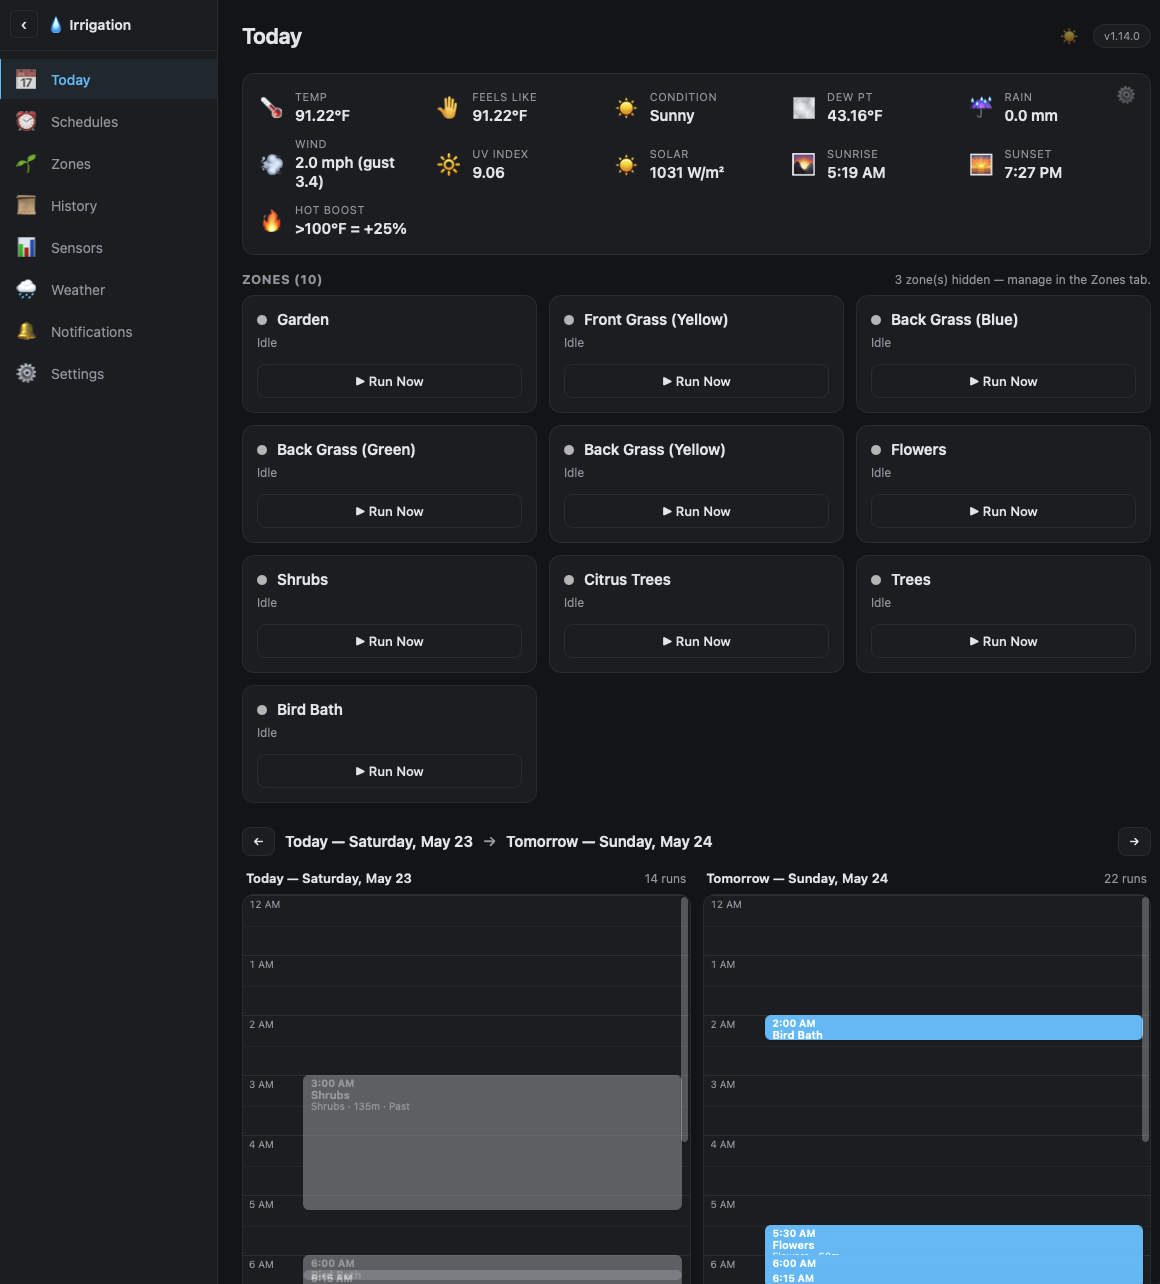
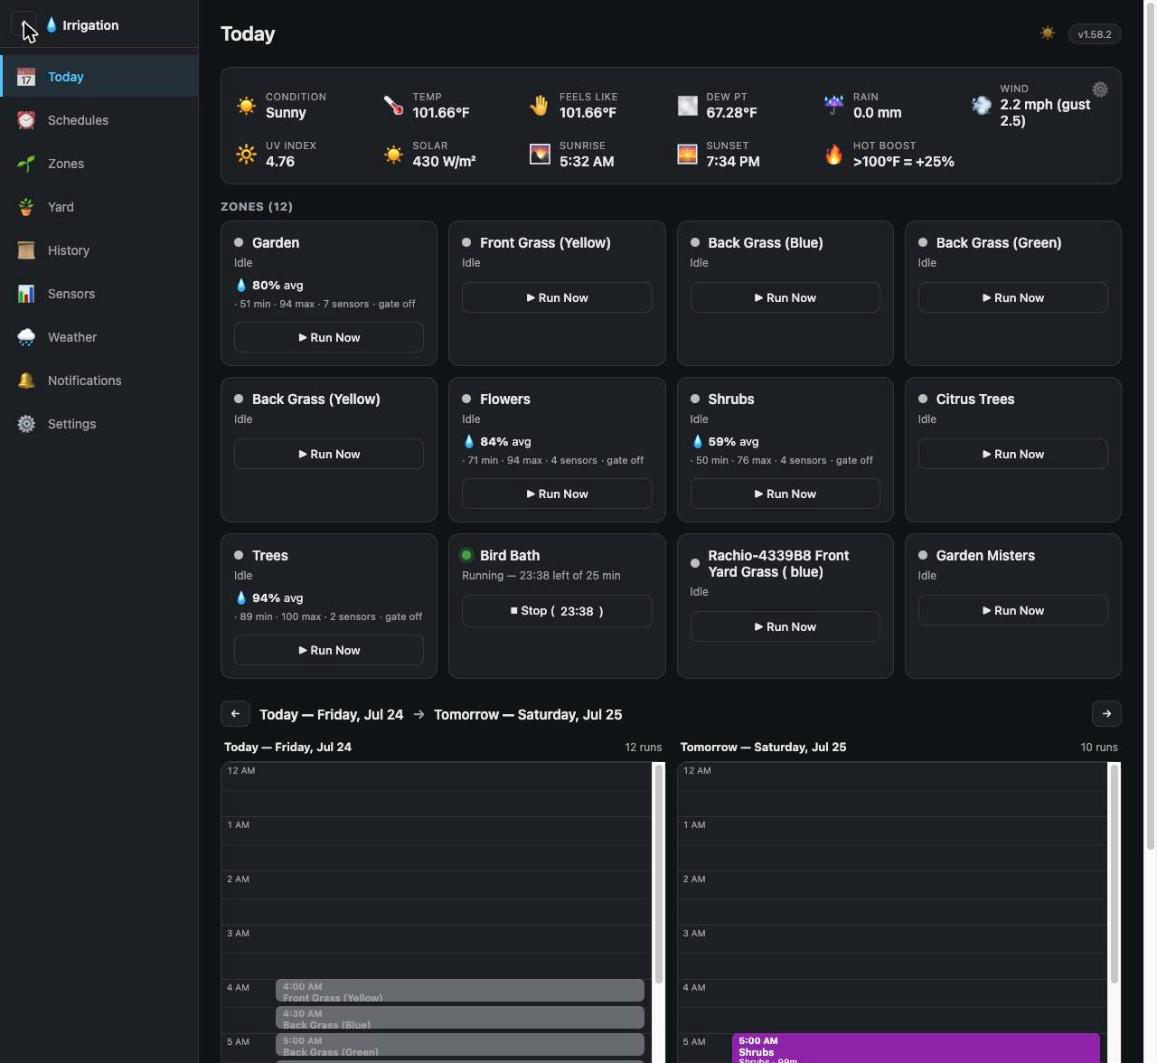
v1.58.2 — stranded-pointer drag fix, always-visible map legend, fresh screenshots
_onMapPointerDown (view-pan branch): a gesture interrupted mid-pinch left a
ghost pointer in _mapPointers, so the next single-pointer drag was treated as
an in-progress two-finger gesture and ignored until reload — now a new primary
pointer clears the tracker and _mapPinch first. Yard map: the controls hint
was only rendered when there were no unplaced-plant chips; it is now an
always-rendered legend below the aerial covering zoom/pan/fit, the 1 m nudge
D-pad, marker drag, canopy measure, and light areas (DE pack strings added,
reassembled via i18n_assemble). README: all 7 panel screenshots re-captured on
v1.58.2 with panel-only chrome + 2 new (schedule-editor scheduler-priority
section, Notifications tab); img dims/alts updated.

diff --git a/custom_components/complete_irrigation/frontend/complete-irrigation-panel.js b/custom_components/complete_irrigation/frontend/complete-irrigation-panel.js
@@ -72,7 +72,7 @@
   // v1.16: one constant fed to every version-pill render + the console
   // banner. Pre-v1.16 the version was hard-coded in 10+ places and got
   // out of sync with manifest.json on most releases.
-  const PANEL_VERSION = "v1.58.1";
+  const PANEL_VERSION = "v1.58.2";
   // v1.41 — external plant-ID providers (mirrors llm_client.PROVIDERS). URL is
   // auto-filled when a provider is picked; model is an editable hint. All speak
   // the same OpenAI /v1/chat/completions shape, so one settings form covers them.
@@ -3432,6 +3432,15 @@
       // the press lands on the aerial layer, not a button/chip.
       if (wrap && e.target?.closest?.(".yard-map-view")) {
         e.preventDefault();
+        // v1.58.2 — a PRIMARY pointer starting a fresh gesture flushes any stale
+        // tracked pointers (an alert/modal mid-drag can swallow pointerup, and a
+        // stranded entry makes every later mouse drag look like a 2-finger pinch,
+        // killing pan until reload). Mouse is always primary; the first touch is
+        // primary; a real second finger (isPrimary=false) still joins the pinch.
+        if (e.isPrimary) {
+          this._mapPointers.clear();
+          this._mapPinch = null;
+        }
         this._mapPointers.set(e.pointerId, { x: e.clientX, y: e.clientY });
         try {
           wrap.setPointerCapture?.(e.pointerId);
@@ -7380,7 +7389,15 @@
         areaAssignPanel +
         (chips
           ? `<div class="yard-map-unplaced"><span class="muted">Tap to place:</span> ${chips}</div>`
-          : `<p class="muted yard-map-hint">Drag the map to pan &middot; scroll or +/&minus; to zoom in &middot; drag a marker to reposition.</p>`) +
+          : "") +
+        // v1.58.2 — ALWAYS-visible legend (the old hint hid whenever unplaced
+        // chips rendered, so most users never saw what the controls do).
+        `<p class="muted yard-map-hint">` +
+        `<strong>Map controls:</strong> scroll or <strong>+</strong>/<strong>&minus;</strong> to zoom &middot; ` +
+        `once zoomed, <strong>drag</strong> the image to pan &middot; <strong>⤢</strong> fits the whole aerial &middot; ` +
+        `<strong>▲◀▶▼</strong> shift the aerial frame 1 m per tap (changes what ground the photo covers &mdash; use when your yard is clipped on one side) &middot; ` +
+        `drag a <strong>marker</strong> to move a plant &middot; <strong>📐</strong> measures a canopy &middot; <strong>🗺</strong> groups plants into a light area.` +
+        `</p>` +
         `</div>`
       );
     }
@@ -10036,6 +10053,7 @@
       "Manual": "Manuell",
       "Manual fallback (inches / week)": "Manueller Fallback (Zoll / Woche)",
       "Manual run default": "Standard für manuellen Lauf",
+      "Map controls:": "Kartensteuerung:",
       "Master switch. Turn off to silence all push notifications without losing your config.": "Hauptschalter. Ausschalten, um alle Push-Benachrichtigungen stummzuschalten, ohne deine Konfiguration zu verlieren.",
       "Max %": "Max. %",
       "Max cycles": "Max. Zyklen",
@@ -10359,6 +10377,8 @@
       "completed": "abgeschlossen",
       "count": "Anzahl",
       "custom": "Benutzerdefiniert",
+      "drag": "ziehe",
+      "drag a": "ziehe einen",
       "e.g. 1": "z. B. 1",
       "e.g. 100": "z. B. 100",
       "e.g. 10000": "z. B. 10000",
@@ -10369,24 +10389,34 @@
       "e.g. Front Bed": "z. B. Vorderes Beet",
       "e.g. Front-yard lemon": "z. B. Zitrone im Vorgarten",
       "e.g. qwen2.5-vl": "z. B. qwen2.5-vl",
+      "fits the whole aerial ·": "passt das ganze Luftbild ein ·",
       "from your library. You'll see a thumbnail — then tap": "aus deiner Mediathek. Du siehst ein Vorschaubild — tippe dann auf",
+      "groups plants into a light area.": "gruppiert Pflanzen in einen Lichtbereich.",
       "in avg": "im Schnitt",
       "key saved — leave blank to keep it": "Schlüssel gespeichert — leer lassen, um ihn zu behalten",
       "lawn": "Rasen",
       "left": "verbleibend",
+      "marker": "Marker",
+      "measures a canopy ·": "misst eine Kronenfläche ·",
       "model id": "Modell-ID",
       "no zone found for that ZIP": "keine Zone für diese PLZ gefunden",
       "not necessary": "nicht nötig",
       "on the Yard tab to re-fetch.": "auf dem Garten-Tab, um es neu zu laden.",
+      "once zoomed,": "wenn gezoomt,",
       "paste your API key": "füge deinen API-Schlüssel ein",
       "paste your Perenual API key": "füge deinen Perenual-API-Schlüssel ein",
       "paste your Pl@ntNet API key": "füge deinen Pl@ntNet-API-Schlüssel ein",
       "primary": "primär",
       "running": "läuft",
+      "scroll or": "Scrollen oder",
       "services found in this HA instance yet. Install the Home Assistant Companion app on your phone (or another notify integration) and they'll appear here.": "Dienste in dieser HA-Instanz gefunden. Installiere die Home Assistant Companion App auf deinem Handy (oder eine andere Benachrichtigungs-Integration), dann erscheinen sie hier.",
+      "shift the aerial frame 1 m per tap (changes what ground the photo covers — use when your yard is clipped on one side) ·": "verschiebt den Bildausschnitt 1 m pro Tipp (ändert, welchen Bereich das Foto abdeckt — nützlich, wenn dein Garten an einer Seite abgeschnitten ist) ·",
       "skipped": "übersprungen",
       "species not set": "Art nicht festgelegt",
+      "the image to pan ·": "das Bild zum Verschieben ·",
       "to": "auf",
+      "to move a plant ·": "zum Verschieben einer Pflanze ·",
+      "to zoom ·": "zum Zoomen ·",
       "trees": "Bäume",
       "vegetable_garden": "Gemüsegarten",
       "· gate off": "· Sperre aus",

diff --git a/README.md b/README.md
@@ -8,17 +8,19 @@ A Home Assistant custom integration for complete, sensor-driven irrigation contr
 
 > **Smoke-tested against a real HA container per the [3-check protocol](CONTRIBUTING.md) every release.** Back up your HA before installing; report bugs at the [issues page](https://github.com/HL-Apprentice/ha-complete-irrigation/issues). Security issues: see [SECURITY.md](SECURITY.md). See [CHANGELOG.md](CHANGELOG.md) for what's new.
 
-<img width="1160" height="1284" alt="Today tab: weather banner, per-zone Run Now tiles, and the today/tomorrow run timeline" src="https://raw.githubusercontent.com/HL-Apprentice/ha-complete-irrigation/main/assets/screenshots/panel-1.png" />
+<img width="1157" height="1063" alt="Today tab: weather banner, per-zone Run Now tiles, and the today/tomorrow run timeline" src="https://raw.githubusercontent.com/HL-Apprentice/ha-complete-irrigation/main/assets/screenshots/panel-1.png" />
 
 <details>
 <summary>More screenshots</summary>
 
-<img width="1168" height="437" alt="Schedules tab: schedule list with recurrence, duration, and enable/edit/delete controls" src="https://raw.githubusercontent.com/HL-Apprentice/ha-complete-irrigation/main/assets/screenshots/panel-2.png" />
-<img width="1163" height="498" alt="Zones tab: per-zone week-at-a-glance run dots with New Planting and Hide from Today buttons" src="https://raw.githubusercontent.com/HL-Apprentice/ha-complete-irrigation/main/assets/screenshots/panel-3.png" />
-<img width="1168" height="459" alt="History tab: run history filtered by zone, schedule, status, and date range" src="https://raw.githubusercontent.com/HL-Apprentice/ha-complete-irrigation/main/assets/screenshots/panel-4.png" />
-<img width="1163" height="651" alt="Sensors tab: per-zone moisture sensors with live readings and the combined value used for decisions" src="https://raw.githubusercontent.com/HL-Apprentice/ha-complete-irrigation/main/assets/screenshots/panel-5.png" />
-<img width="1164" height="999" alt="Weather tab: 3-day forecast, rain-lockout sensor picker, hot weather boost, and wind defer" src="https://raw.githubusercontent.com/HL-Apprentice/ha-complete-irrigation/main/assets/screenshots/panel-6.png" />
-<img width="900" height="1284" alt="Settings tab: theme, schedule conflicts, inter-zone buffer, manual run default, and calendar feed" src="https://raw.githubusercontent.com/HL-Apprentice/ha-complete-irrigation/main/assets/screenshots/panel-7.png" />
+<img width="1157" height="1063" alt="Schedules tab: proposed schedule fixes with one-tap Apply, the Ask-the-scheduler chat box, and the schedule list" src="https://raw.githubusercontent.com/HL-Apprentice/ha-complete-irrigation/main/assets/screenshots/panel-2.png" />
+<img width="1157" height="1063" alt="Zones tab: per-zone week-at-a-glance run dots with New Planting, Diagnose, and Hide from Today buttons" src="https://raw.githubusercontent.com/HL-Apprentice/ha-complete-irrigation/main/assets/screenshots/panel-3.png" />
+<img width="1157" height="1063" alt="History tab: run history filtered by zone, schedule, status, and date range, with block progress and trigger tags" src="https://raw.githubusercontent.com/HL-Apprentice/ha-complete-irrigation/main/assets/screenshots/panel-4.png" />
+<img width="1157" height="1063" alt="Sensors tab: per-zone moisture sensors with live readings and the combined value used for decisions" src="https://raw.githubusercontent.com/HL-Apprentice/ha-complete-irrigation/main/assets/screenshots/panel-5.png" />
+<img width="1157" height="1063" alt="Weather tab: 3-day forecast, rain-lockout sensor picker, hot weather boost, and wind defer" src="https://raw.githubusercontent.com/HL-Apprentice/ha-complete-irrigation/main/assets/screenshots/panel-6.png" />
+<img width="1157" height="1063" alt="Settings tab: theme, schedule-conflict policy, schedule timing, and split-chunk defaults by plant type" src="https://raw.githubusercontent.com/HL-Apprentice/ha-complete-irrigation/main/assets/screenshots/panel-7.png" />
+<img width="1157" height="1063" alt="Schedule editor: scheduler priority with Essential run, split profile, minimum split chunk, and ignore-weather-gates toggles" src="https://raw.githubusercontent.com/HL-Apprentice/ha-complete-irrigation/main/assets/screenshots/panel-8.png" />
+<img width="1157" height="1063" alt="Notifications tab: notify targets, quiet hours, missed-run recovery, and the daily low-moisture summary" src="https://raw.githubusercontent.com/HL-Apprentice/ha-complete-irrigation/main/assets/screenshots/panel-9.png" />
 
 </details>
 

diff --git a/CHANGELOG.md b/CHANGELOG.md
@@ -4,6 +4,23 @@ All notable changes to this integration. The format loosely follows
 [Keep a Changelog](https://keepachangelog.com/en/1.1.0/) and the
 project uses [Semantic Versioning](https://semver.org/).
 
+## v1.58.2 — 2026-07-24 — patch
+
+**Yard-map drag fix, an always-visible map legend, and refreshed screenshots.**
+
+- Fix: **marker/view drag could die after an interrupted gesture** — a pointer
+  stranded in the pinch tracker made the panel think a two-finger gesture was
+  still in progress, so single-pointer drags were ignored until reload. The
+  tracker now resets when a new primary pointer arrives.
+- **Map legend** — a one-line legend under the aerial explains every control
+  (zoom, pan, fit, the 1 m ▲◀▶▼ frame nudge, marker drag, 📐 canopy measure,
+  🗺 light areas). Previously a hint only appeared when there were no unplaced
+  plants, so most yards never saw it. German translations included.
+- **README screenshots refreshed** — all 7 panels re-captured on v1.58.2 (clean
+  panel-only chrome), plus two new shots: the schedule editor's scheduler-
+  priority section (Essential run / split profile / ignore-weather-gates) and
+  the Notifications tab.
+
 ## v1.58.1 — 2026-07-24 — patch
 
 **Yard-map polish: a real scroll isolation zone + frame nudge.**
